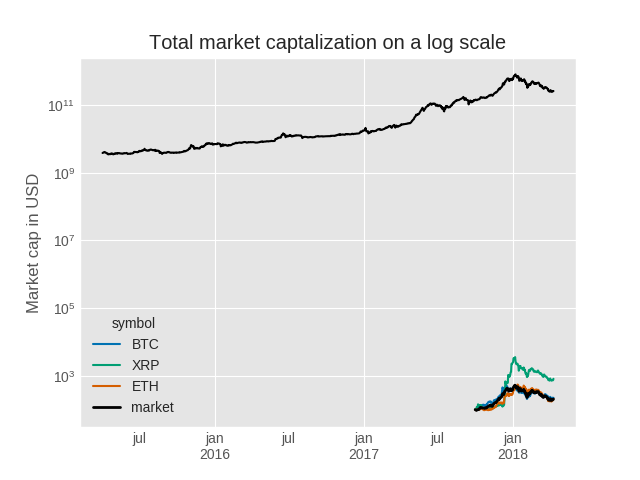
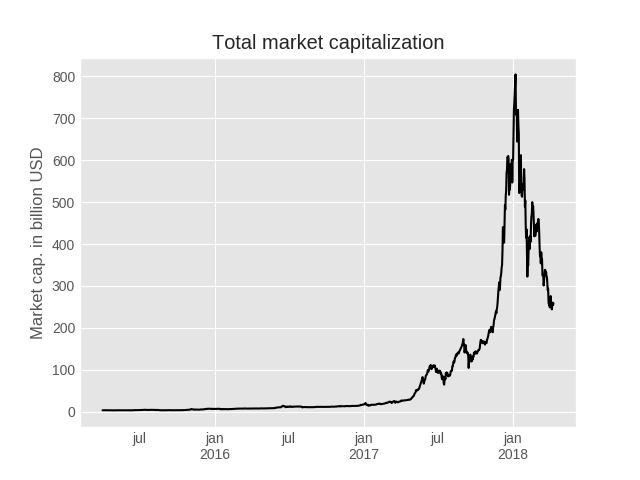
edit

diff --git a/py/9-bsk_ret.py b/py/9-bsk_ret.py
@@ -2,6 +2,9 @@
 create a bunch of different indexes using ggindex() and compare their properties.
 """
 
+plt.close('all')
+plt.clf()
+
 
 # set start end date
 ret_bsk_mat.index[0]
@@ -10,6 +13,9 @@ ret_bsk_mat.index[-1]
 # corr
 ret_bsk_mat.corr().round(4)
 ret_bsk_mat.corr().round(4).to_csv('output/bsk/ret/corr_1.csv')
+
+# todo add corr plot
+
 
 # sharpe sortino
 sharpe_1 = sharpe(ret_bsk_mat, showall=True).round(2)
@@ -115,6 +121,11 @@ def roll(df, w):
   # is now ready for any action normally performed
   # on a groupby object
   return panel.to_frame().unstack().T.groupby(level=0)
+# todo change from Panel() to another method.
+# Panel is deprecated and will be removed in a future version.
+# The recommended way to represent these types of 3-dimensional data are with a MultiIndex on a DataFrame, via the Panel.to_frame() method
+# Alternatively, you can use the xarray package http://xarray.pydata.org/en/stable/.
+# Pandas provides a `.to_xarray()` method to help automate this conversion.
 
 # see rolling beta
 roll(retmat1, w=90).apply(beta).rolling(10).mean().plot()
@@ -137,36 +148,46 @@ plt.ylabel('Daily returns')
 plt.title('Box plot of daily returns')
 plt.savefig('output/bsk/ret/retmat1_box.png')
 
-# hist
-def histplot(retmat, col):
-  retmat[col].plot.hist()
-  plt.title(col)
-retmat1.columns
-histplot(retmat1, retmat1.columns[1])
+# violin
+if CLINUX:
+    long_retmat1 = retmat1.melt()
+    long_retmat1.columns = ['symbol', 'return']
+    sns.violinplot(x='return', y='symbol', data=long_retmat1)
+    plt.savefig('output/bsk/ret/retmat1_violin.png')
+    plt.close(); plt.clf()
 
-# todo use sns kernel density plot and have 1-3 in a plot. clinux.
+# density
+if CLINUX:
+    retmat1.columns
+    sns.kdeplot(retmat1['BTC'], cumulative=True)
+    sns.kdeplot(retmat1['market'], cumulative=True)
+    sns.kdeplot(retmat1['t10-wm-rm'], cumulative=True)
+    plt.title('Cumulative Density Function')
+    plt.savefig('output/bsk/ret/retmat1_cdf.png')
+    plt.close(); plt.clf()
+
+# hist
+retmat1.columns
+retmat1[retmat1.columns[1]].plot.hist()
+plt.title(retmat1.columns[1])
+plt.close(); plt.clf()
 
 dens = sm.nonparametric.KDEUnivariate(retmat1.market)
 dens.fit()
 plt.plot(dens.cdf)
 plt.savefig('output/bsk/ret/ret_dens_market.png')
-plt.close(); plt.clf()
-
-# qq plot 1
-#sm.qqplot(retmat1.market, stats.t, distargs=(4,))
-sm.qqplot(retmat1.market, stats.t, fit=True, line='45')
-
-sm.qqplot(retmat1.market, stats.t, distargs=(3,), line='45')
+plt.close('all'); plt.clf()
 
 # todo not at all like in thesis vid t distr df=4
 
 def qqplot(ret_vec, name=''):
-  #sm.qqplot(ret_vec, stats.t, fit=True, line='45')
-  sm.qqplot(retmat1.market, stats.t, distargs=(3,))
+  sm.qqplot(ret_vec, stats.t, fit=True, line='45')
+  #sm.qqplot(retmat1.market, stats.t, distargs=(3,))
   plt.title('Q-Q-plot ' + name)
-  filename = 'output/bsk/ret/qqplot_' + name + '.png'
+  filename = 'output/bsk/ret/q-q-plot_' + name + '.png'
   plt.savefig(filename)
-
+  plt.title('Q-Q Plot market')
+  plt.close(); plt.clf()
 qqplot(retmat1.BTC, 'BTC')
 qqplot(retmat1.market, 'market')
 # todo read up on statsmodel regarding the params used.
@@ -192,6 +213,7 @@ tkr_most_contrib = tkr_temp1 + tkr_temp2
 
 # plot
 contr1[tkr_most_contrib].mean().plot.barh()
+plt.show()
 
 # plot
 contr1[tkr_t10now].mean().plot.barh()
@@ -199,6 +221,7 @@ plt.title('Mean contribution \n in ' + r1.name)
 plt.xlabel('Contribution = weight times annualized return')
 plt.ylabel('Current top 10 assets')
 plt.savefig('output/bsk/ret/contribution_bsk1.png')
+plt.close(); plt.clf()
 
 # plot
 tkr_t5now
@@ -207,12 +230,16 @@ plt.title('Mean contribution \n in ' + r4.name)
 plt.xlabel('Contribution = weight times annualized return')
 plt.ylabel('Current top 5 assets')
 plt.savefig('output/bsk/ret/contribution_bsk4.png')
+plt.close(); plt.clf()
 
 ## density of ret
 
-clinux = False
-if clinux:
-  g = sns.PairGrid(retmat1, diag_sharey=False)
-  g.map_lower(sns.kdeplot)
-  g.map_upper(sns.scatterplot)
-  g.map_diag(sns.kdeplot, lw=3)
+pairs_plot = False # turning on takes time to compute and the file is already saved
+if pairs_plot:
+    g = sns.PairGrid(retmat1)
+    g = g.map_upper(plt.scatter)
+    g = g.map_lower(sns.kdeplot, cmap="Blues_d")
+    g = g.map_diag(sns.kdeplot, lw=3, legend=False)
+    plt.show()
+
+##

diff --git a/py/7-ret_slides.py b/py/7-ret_slides.py
@@ -21,10 +21,12 @@ retvol_t10['Sharpe'] = retvol_t10.Return / retvol_t10.Volatility
 ## sns scatter
 
 retvol_t10['Symbol'] = retvol_t10.index
-clinux = False
-if clinux:
+# todo get error even though relplot is in the docs for sns
+if False:
   sns.relplot(x='Volatility', y='Return', hue='Symbol', size='Sharpe',
               data=retvol_t10)
+  plt.show()
+
 
 ## ret vol scatter, w text
 
@@ -56,6 +58,7 @@ pri_t5.plot(logy=True)
 plt.title('$100 investment')
 plt.ylabel('Value')
 plt.savefig('output/vcc/ret/pri_t5.png')
+plt.close(); plt.clf()
 
 pri_mrkt = return2aum(r0[START3:])
 pd.concat([pri_tkr3, pri_mrkt], axis=1).max()
@@ -64,13 +67,24 @@ pri_mrkt.plot(logy=True, color='black', linewidth=2, legend=True)
 plt.title('$100 investment')
 plt.ylabel('Value')
 plt.savefig('output/vcc/ret/pri_tkr3_market.png')
+plt.close(); plt.clf()
 
 ## total market cap
 
+# log
 mca_vcc_mat.sum(1).plot(logy=True, color='black')
-plt.title('Total market captalization on a log scale')
-plt.ylabel('Market cap in USD')
+plt.title('Total market capitalization on a log scale')
+plt.ylabel('Market cap. in USD')
+plt.savefig('output/vcc/ret/total_marketcap_log.png')
+plt.close(); plt.clf()
+
+# not log
+mca_vcc_mat.sum(1).div(10**9).plot(logy=False, color='black')
+plt.title('Total market capitalization')
+plt.ylabel('Market cap. in billion USD')
 plt.savefig('output/vcc/ret/total_marketcap.png')
+plt.close(); plt.clf()
+
 
 ## total market cap vs owning the market
 
@@ -104,6 +118,8 @@ plt.title('$100 Invested')
 plt.ylabel('USD')
 plt.gca().set_ylim(bottom=BOTTOM, top=TOP)
 plt.savefig('output/vcc/ret/pri_portfolios.png')
+plt.close(); plt.clf()
+
 # table
 final_prices = primat2.iloc[-1,:]
 final_shrp = sharpe(retmat2.loc[START3:])
@@ -122,6 +138,8 @@ plt.title('$100 Invested')
 plt.ylabel('USD')
 plt.gca().set_ylim(bottom=BOTTOM, top=TOP)
 plt.savefig('output/vcc/ret/pri_portfolios_2.png')
+plt.close(); plt.clf()
+
 
 
 ## corr
@@ -131,5 +149,4 @@ tkr_t5hist
 
 tkr_t5hist
 tkr_sp500_top5 = ['AAPL', 'MSFT', 'AMZN', 'JNJ', 'JPM']
-
 

diff --git a/py/1_import.py b/py/1_import.py
@@ -157,15 +157,14 @@ if not online_download:
     # read
     file_pri_fin = 'object/pri_fin_mat.csv'
     file_vol_fin = 'object/vol_fin_mat.csv'
-    pri_fin_mat = pd.read_csv(file_pri_fin, index_col = 'Date', parse_dates=True)
-    vol_fin_mat = pd.read_csv(file_vol_fin , index_col = 'Date', parse_dates=True)
+    pri_fin_mat = pd.read_csv(file_pri_fin, index_col=0, parse_dates=True)
+    vol_fin_mat = pd.read_csv(file_vol_fin , index_col=0, parse_dates=True)
     # re index
     pri_fin_mat = re_index_date(pri_fin_mat)
     vol_fin_mat = re_index_date(vol_fin_mat)
     # slice date
     pri_fin_mat = pri_fin_mat.loc[START1:]
     vol_fin_mat = vol_fin_mat.loc[START1:]
-
 
 # create new datetime index, of finance dates (weekdays)
 # dtindex_fin = pri_fin_mat.index

diff --git a/py/0start.py b/py/0start.py
@@ -16,6 +16,9 @@ execfile('py/0_plots.py')
 plt.interactive(False)
 plt.isinteractive()
 
+# computer
+CLINUX = True
+
 # import data
 execfile('py/1_import.py')
 
